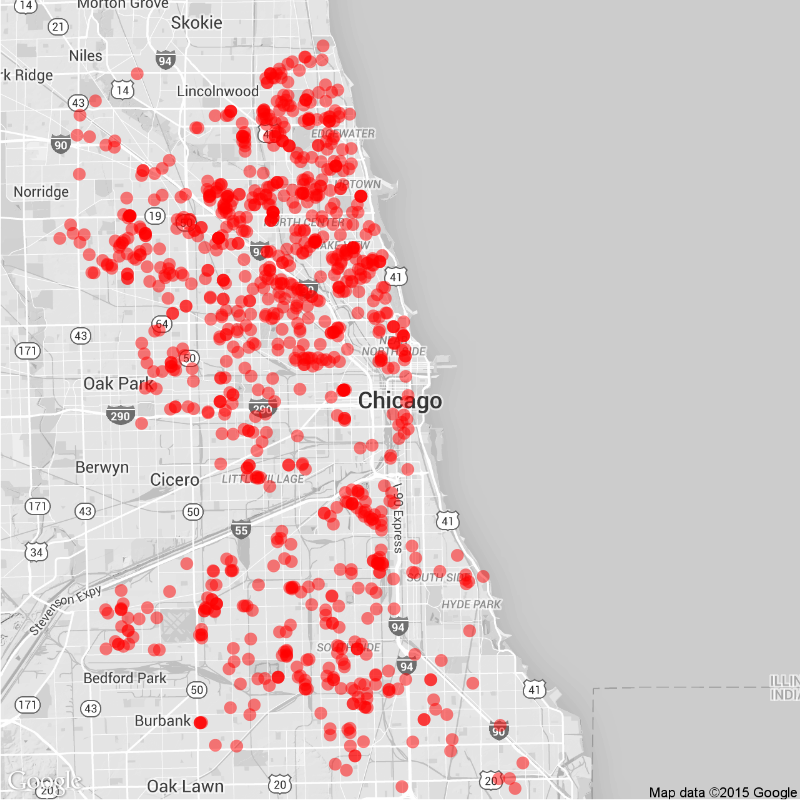
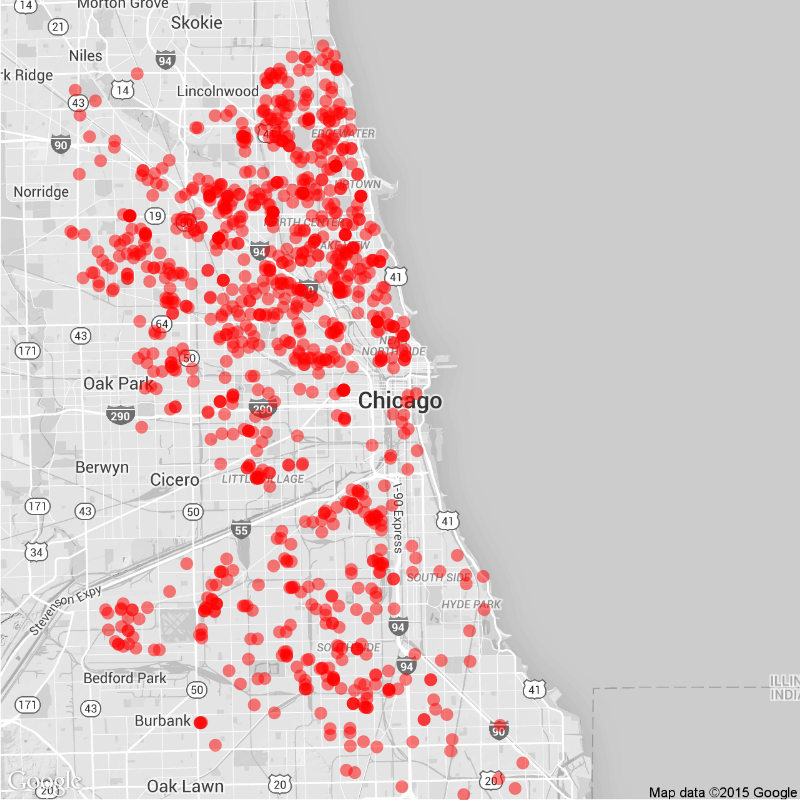
Daily Maps

diff --git a/daily.md b/daily.md
@@ -15,22 +15,22 @@ tags: Chicago NYC weekly daily rats
 
 ### Daily
 
-Yesterday (August 03), there were 181 calls to Chicago's 311 line about rats.
+Yesterday (August 04), there were 215 calls to Chicago's 311 line about rats.
 ![Chicago rat calls to 311 weekly map]({{ site.cityimages }}/daily/Chicago_Rat_Map_Daily.png)
 
 ### Weekly
-Between July 28 and August 03, there were 1001 calls to Chicago's 311 line about rats. The average number of weekly calls for this time of year is 896.
+Between July 29 and August 04, there were 1028 calls to Chicago's 311 line about rats. The average number of weekly calls for this time of year is 928.
 ![Chicago rat calls to 311 weekly map]({{ site.cityimages }}/daily/Chicago_Rat_Map_Weekly.png)
 ***
 # New York City <a id="nyc"><a>
 
 ### Daily
 
-Yesterday (August 03), there were 0 calls to New York City's 311 line about rats.
+Yesterday (August 04), there were 0 calls to New York City's 311 line about rats.
 ![NYC rat calls to 311 weekly map]({{ site.cityimages }}/daily/NYC_Rat_Map_Daily.png)
 
 ### Weekly
-Between July 28 and August 03, there were 0 calls to New York City's 311 line about rats. The average number of weekly calls for this time of year is 285.
+Between July 29 and August 04, there were 0 calls to New York City's 311 line about rats. The average number of weekly calls for this time of year is 286.
 ![NYC rat calls to 311 weekly map]({{ site.cityimages }}/daily/NYC_Rat_Map_Weekly.png)
 
 Each red dot represents one call about a rat seen in that location. The dots are transparent, so multiple calls from one location will be seen as a solid dot. The usual caveats apply: more calls do not necessarily mean that there are more rats in that location than other parts of the city. A cluster of dots could indicate that one resident is unusually vocal about rodents in his or her neighborhood. Also, more densely populated neighborhoods tend to make more calls to 311.
